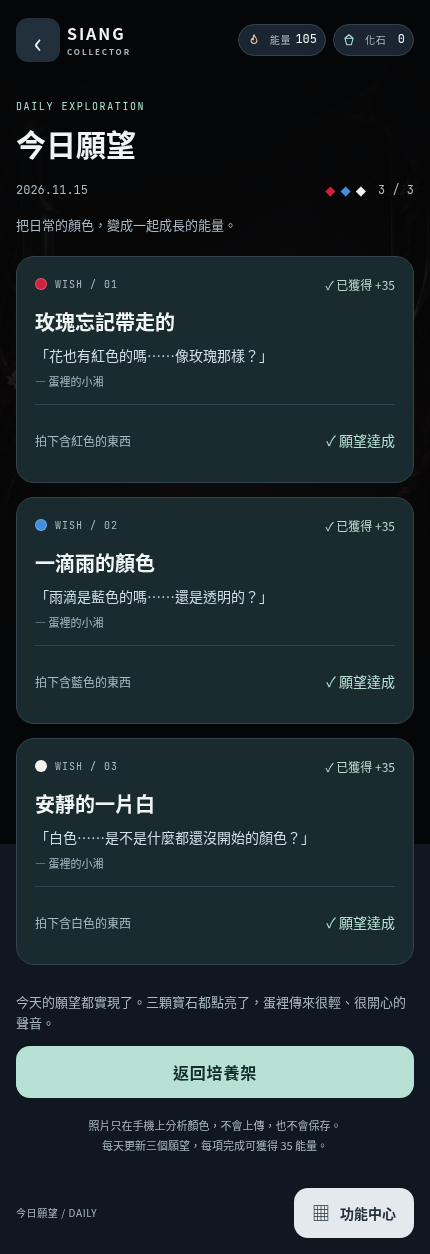
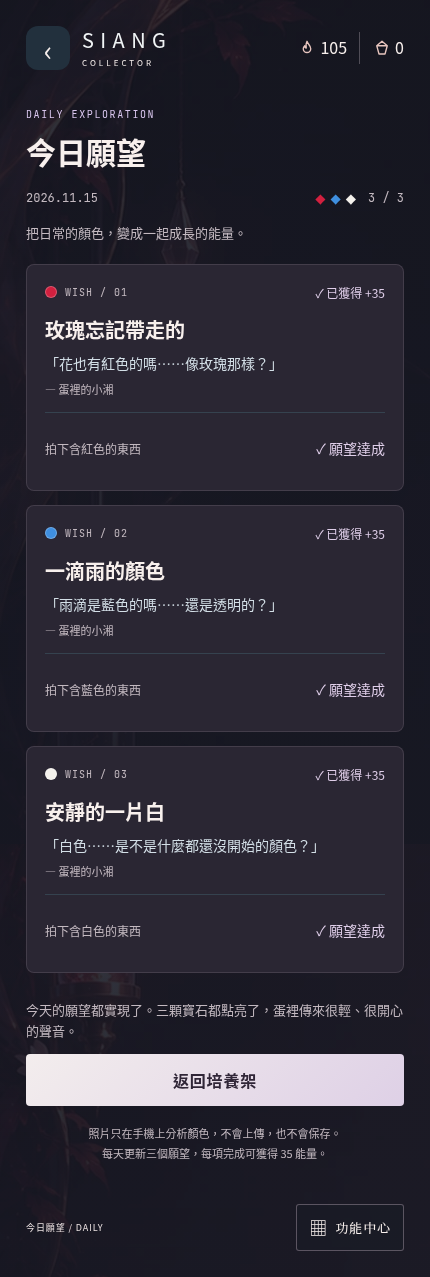
Apply approved cinematic lobby art direction with live layered assets

diff --git a/css/lobby.css b/css/lobby.css
@@ -1,0 +1,85 @@
+/* Approved cinematic lobby direction. Scene, actors and controls remain separate. */
+:root {
+  --bg-deep:#151722; --bg-panel:#20232e; --line:#45444f;
+  --ivory:#f8f0ed; --pearl:#e8dfdf; --silver:#c3b9c0;
+  --bio-cyan:#d8c5ed; --hud:#d8c5ed; --crimson:#af8cc6; --crimson-deep:#655675;
+  --font-display:"Noto Serif TC","Songti TC",serif;
+}
+body { background:#151722; }
+.scene { background-color:#151722; background-position:center; filter:saturate(.62); }
+.scene::after { background:linear-gradient(180deg,#12172580,transparent 24%,#1b223344 55%,#13172466 100%),linear-gradient(90deg,#14203550,#14203565); }
+.app { padding:calc(var(--safe-top) + 26px) max(26px,env(safe-area-inset-right)) 0 max(26px,env(safe-area-inset-left)); }
+body[data-view="home"] .app { min-height:max(760px,100svh); }
+.topbar { min-height:40px; gap:12px; flex-wrap:nowrap; }
+.topbar__brand { font-family:var(--font-body); font-size:20px; font-weight:400; letter-spacing:.32em; }
+.topbar__brand span { color:var(--ivory); font-size:8px; font-weight:400; letter-spacing:.38em; margin-top:6px; }
+.chip { height:32px; padding:0; gap:4px; border:0; border-radius:0; background:none; }
+.chip__icon { width:19px; height:24px; }
+.chip__icon svg { width:18px; height:18px; }
+#chip-energy .chip__icon svg,#chip-fossil .chip__icon svg { stroke:#e8c6bf; }
+.chip__v { font-family:var(--font-body); font-weight:300; font-size:16px; min-width:1ch; }
+#chip-fossil { border-left:1px solid #d8c9d44d; padding-left:12px; }
+.view--home { display:grid; grid-template-columns:minmax(0,1fr); grid-template-rows:auto auto minmax(250px,1fr) 115px 36px 64px; gap:0; padding:38px 0 20px; min-height:620px; flex:1 0 auto; }
+.habitat-label { font:10px var(--font-body); letter-spacing:.23em; color:var(--pearl); padding-bottom:10px; }
+.online { font-size:9px; letter-spacing:.05em; color:#c7bccf; }
+.eggtitle { align-items:flex-start; gap:8px; }
+.eggtitle__name { font:400 27px/1.35 var(--font-display); color:var(--ivory); letter-spacing:.12em; }
+.eggtitle__meta { font:10px var(--font-body); letter-spacing:.2em; color:var(--pearl); }
+.pips { gap:4px; }
+.pips i { width:8px; height:2px; background:#b6a5b455; }
+.pips i.is-on { background:#e2cfef; }
+.stage { height:auto; min-height:250px; container-type:size; }
+.incubator { width:min(116cqw,155cqh); max-width:480px; left:48%; top:54%; transform:translate(-50%,-50%); }
+.incubator__layer--cradle { filter:brightness(.94) saturate(.82); }
+.incubator__halo { opacity:.25; }
+.side { top:17%; right:-3px; }
+.fab { background:none; border:0; border-radius:0; width:54px; min-height:48px; height:auto; gap:4px; }
+.fab svg { stroke:#e9d4cc; width:22px; height:22px; }
+.fab__label { font:11px var(--font-display); color:var(--pearl); }
+.floor { --actor:clamp(145px,42vw,185px); height:115px; margin-top:0; z-index:4; }
+.guide { width:58px; left:-10px; bottom:30px; opacity:.9; }
+.guide__alert { width:15px; height:15px; font-size:11px; }
+.actor { bottom:17px; }
+.bubble { left:0; right:auto; bottom:0; top:auto; max-width:calc(100% - 24px); padding:0; background:none; box-shadow:none; border-radius:0; border:0; transform:translateY(3px); text-align:left; }
+.bubble::after,.bubble::before { display:none; }
+.bubble.is-open { transform:none; }
+.bubble__text { font:12px/1.6 var(--font-display); color:var(--ivory); text-shadow:0 1px 8px #080914; }
+.bubble__cta { display:none; }
+.vitals { padding:0; background:none; border:0; border-radius:0; display:grid; grid-template-columns:auto minmax(0,1fr) auto; gap:14px; }
+.vitals__id { display:block; }
+.vitals__en,.vitals__bpm,.ecg { display:none; }
+.vitals__zh { font:12px var(--font-display); color:var(--pearl); letter-spacing:.1em; }
+.bar { height:2px; background:#c9b9c84d; }
+.bar__fill { background:linear-gradient(90deg,#c5aedc,#eed4f3); box-shadow:0 0 8px #c6a2e544; }
+.vitals__num { font-family:var(--font-body); }
+.vitals__value { font-size:14px; font-weight:300; }
+.vitals__max { font-size:12px; margin-left:4px; color:var(--pearl); }
+.home-actions { display:grid; grid-template-columns:1fr 1.08fr; align-items:center; gap:16px; padding-top:10px; }
+#cultivate { grid-column:2; grid-row:1; width:100%; min-height:48px; font:500 22px var(--font-display); color:#392c3e; background:linear-gradient(135deg,#faf4f1,#e8d8eb 58%,#f5e4e2); border:1px solid #fff3f3; border-radius:3px; clip-path:polygon(10px 0,calc(100% - 9px) 0,100% 9px,100% calc(100% - 9px),calc(100% - 9px) 100%,0 100%,0 10px); box-shadow:none; letter-spacing:.13em; padding:8px 16px; display:flex; justify-content:space-between; }
+#cultivate::after { content:'⟶'; font:24px var(--font-body); font-weight:300; }
+.wish-entry { grid-row:1; grid-column:1; display:grid; grid-template-columns:25px 1fr; gap:1px 9px; padding:0; min-height:54px; background:none; border:0; border-radius:0; align-content:center; }
+.wish-entry .wish-entry__star { grid-column:1; grid-row:1 / 3; align-self:center; font-size:27px; color:#e5bfc1; margin:0; }
+.wish-entry__title { grid-column:2; font:17px var(--font-display); letter-spacing:.1em; white-space:nowrap; }
+#home-progress { grid-column:2; font:10px var(--font-body); letter-spacing:.15em; color:var(--pearl); }
+.game-footer { padding:16px 0 calc(var(--safe-bottom) + 26px); min-height:80px; }
+#location-label { font:9px var(--font-body); color:var(--pearl); letter-spacing:.1em; }
+.center-button { min-height:44px; padding:8px 12px; border:1px solid #c5b4c362; border-radius:3px; color:var(--ivory); background:#181b2580; gap:8px; }
+.center-button span { font:13px var(--font-display); letter-spacing:.07em; }
+.btn,.mission-shoot { background:linear-gradient(135deg,#f3eded,#ded0e6); color:#302637; border-radius:4px; }
+.mission { background:#20232eef; border-color:#68616e66; border-radius:8px; }
+.mission.is-done { background:#2a2633; }
+.mission-reward,.mission-complete { color:#dfcee9; }
+.nav__item { border-radius:8px; background:#282834; border-color:#514b59; }
+.nav__item[aria-current="page"] { background:#3e344b; border-color:#aa90ba; color:#f5e9fa; }
+.function-center { background:#20212d; border-color:#6a5f73; border-radius:18px 18px 0 0; }
+.close-button { background:#35313f; }
+.sheet { background:#22222e; border-color:#756777; }
+.toast { background:#eee4ef; color:#362b3d; }
+@media(min-height:850px) { .view--home { padding-top:48px; } }
+@media(max-width:374px) { .app { padding-left:max(22px,env(safe-area-inset-left)); padding-right:max(22px,env(safe-area-inset-right)); } .topbar__brand { font-size:18px; } .topbar__brand span { font-size:7px; } .eggtitle__name { font-size:25px; } .online { font-size:8px; } }
+/* Paint the room on the document canvas, including scrollable short screens. */
+.scene { display:none; }
+body { background:linear-gradient(180deg,#12172580,transparent 24%,#1b223344 55%,#13172466),linear-gradient(90deg,#14203570,#14203580),url('../assets/scene/home-bg.webp') center / cover no-repeat #151722; }
+body:not([data-view="home"]) { background-image:linear-gradient(#151722df,#151722f5),url('../assets/scene/home-bg.webp'); }
+/* Crop transparent canvas overflow, without cropping the artwork inside it. */
+.incubator { overflow:hidden; overflow:clip; }

diff --git a/index.html b/index.html
@@ -20,6 +20,7 @@
 <link rel="stylesheet" href="css/hud.css">
 <link rel="stylesheet" href="css/game.css">
 <link rel="stylesheet" href="css/mobile.css">
+<link rel="stylesheet" href="css/lobby.css">
 </head>
 <body>
 <div class="scene" aria-hidden="true"></div>
@@ -29,11 +30,11 @@
     <button class="back-button" id="back-home" type="button" aria-label="返回培養架" hidden>‹</button>
     <div class="chip" id="chip-energy" role="img" aria-label="保溫能量">
       <span class="chip__icon"><svg viewBox="0 0 24 24" aria-hidden="true"><path d="M12 3c1 4 5 5.500 5 10a5 5 0 0 1-10 0c0-2 1-3 2-4 0 2 1 3 2 3 0-3-1-5 1-9z"/></svg></span>
-      <span class="chip__k">能量</span><span class="chip__v" id="energy-value">0</span>
+      <span class="chip__k visually-hidden">能量</span><span class="chip__v" id="energy-value">0</span>
     </div>
     <div class="chip" id="chip-fossil" role="img" aria-label="化石碎片">
       <span class="chip__icon"><svg viewBox="0 0 24 24" aria-hidden="true"><path d="M12 3l7 6-3 11H8L5 9zM5 9h14"/></svg></span>
-      <span class="chip__k">化石</span><span class="chip__v" id="fossil-value">0</span>
+      <span class="chip__k visually-hidden">化石</span><span class="chip__v" id="fossil-value">0</span>
     </div>
     <div class="topbar__brand">SIANG <span>COLLECTOR</span></div>
   </div>
@@ -44,7 +45,7 @@
   </header>
 
   <main class="view view--home" data-view="home">
-    <div class="habitat-label"><span>HABITAT / 01</span><span class="online">● 培育中</span></div>
+    <div class="habitat-label"><span>HABITAT 01</span><span class="online">● 培育中</span></div>
     <div class="eggtitle">
       <span class="eggtitle__name" id="egg-name"></span>
       <span class="eggtitle__meta">
@@ -99,7 +100,7 @@
         <span class="vitals__bpm"><span id="ecg-bpm">48</span> BPM</span>
       </div>
     </section>
-    <div class="home-actions"><button class="btn" type="button" id="cultivate">培養 · 注入能量</button><button class="wish-entry" type="button" id="home-wishes"><span>✧ 今日願望</span><span id="home-progress">0 / 3</span><span>›</span></button></div>
+    <div class="home-actions"><button class="btn" type="button" id="cultivate">培養 · 注入能量</button><button class="wish-entry" type="button" id="home-wishes"><span class="wish-entry__star" aria-hidden="true">✦</span><span class="wish-entry__title">今日願望</span><span id="home-progress">0 / 3</span></button></div>
   </main>
 
   <!-- 今日願望：魔法委託簿 -->

diff --git a/js/app.js b/js/app.js
@@ -99,7 +99,7 @@ function renderHome() {
   incubator.el.classList.toggle('is-ready', ready);
 
   $('egg-name').textContent = egg.name;
-  $('cultivate').textContent = ready ? '破殼 · 迎接小湘' : state.energy > 0 ? '培養 · 注入能量' : '培養 · 等待能量';
+  $('cultivate').textContent = ready ? '破殼' : '培養';
   $('egg-day').textContent = `DAY ${daysSince(state.egg.since) + 1}`;
   [...$('pips').children].forEach((pip, i) => pip.classList.toggle('is-on', i < s));
   $('pips').setAttribute('aria-label', `孵化階段 ${s}，共 4 階段`);

diff --git a/docs/MOBILE_PHASE_ONE.md b/docs/MOBILE_PHASE_ONE.md
@@ -4,11 +4,12 @@
 
 ## 畫面
 
-深藍灰底、霧面實色面板、薄荷色主要操作；房間與培養架原圖保持分層、蛋居中。首頁直接培養與進入願望；功能中心使用原生 dialog 底部抽屜（焦點限制、Escape、關閉、點背景退出），包含培養、願望、圖鑑，以及原本未開放的研究／記憶。現在頁面會有狀態色與文字。
+依使用者核准的新版首頁視覺稿，改成滿版房間場景、輕量資源資訊、左側名稱與日期、原有蛋／培養架分層居中。生命訊號改為場景上的細進度線，移除原本的 ECG 面板；今日願望在左、培養在右，以淡紫瓷白切角主按鈕呈現。小恐龍縮小為引導配角，孵化後的小湘仍使用原本的走路、待機與坐姿動畫。概念稿是構圖參考，程式使用既有房間與角色素材，沒有將整張概念圖當背景。
 
+功能中心使用原生 dialog 底部抽屜（焦點限制、Escape、關閉、點背景退出），包含培養、願望、圖鑑，以及原本未開放的研究／記憶。現在頁面會有狀態色與文字。
 願望一次列出三個任務：原有創意名稱、階段台詞、顏色提示、每項 +35、拍照入口、三顆進度寶石與完成回饋。移除古書翻頁，保留舊書元件檔作歷史參考但不載入。測試用重置入口不再對玩家顯示。
 
-共用規則在 `css/mobile.css`：字體、實色面板、按鈕、觸控與鍵盤焦點、抽屜、轉場、safe-area 與 reduced-motion。主內容及頁尾在正常文流，矮畫面可捲動；場景使用明確高度避免縮網址列時素材容器歸零。
+共用規則在 `css/mobile.css`，核准的場景構圖與瓷白／淡紫配色在 `css/lobby.css`：字體、實色面板、按鈕、觸控與鍵盤焦點、抽屜、轉場、safe-area 與 reduced-motion。主內容及頁尾在正常文流，矮畫面可捲動；場景使用明確高度避免縮網址列時素材容器歸零。
 
 ## 保留與防重複
 
@@ -20,7 +21,7 @@
 
 Chromium 觸控模式：360、390、430 × 844；各寬度另測高度 612。
 
-- 無水平溢出，三張任務可達，抽屜選頁後關閉。
+- 直接比對指定 360／390／430px 與 document scrollWidth、innerWidth（避免手機 viewport 自動放大掩蓋溢出）；三張任務可達，抽屜選頁後關閉。
 - 實際上傳程式產生的目標色 PNG，經原有像素辨識得到 3 × 35 = 105 能量。
 - 重新整理後完成記錄與 105 能量保留，培養扣 10 後 95 能量仍保留。
 - 從既有存檔 fixture 觸發本源蛋孵化、揭曉、收進圖鑑，新蛋及原味小湘正常顯示。
